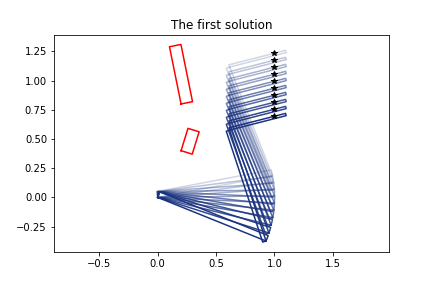
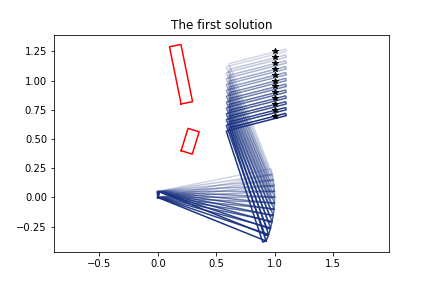
first version of optimization working but still messy

Changed region(s): [[0.4213, 0.1562, 0.662, 0.8125], [0.331, 0.9062, 0.3912, 0.9375]]

diff --git a/ppr/optimize.py b/ppr/optimize.py
@@ -10,6 +10,34 @@ Created on Tue Nov 21 11:59:33 2017
 import numpy as np
 from scipy.optimize import minimize, fmin_slsqp
 
+from scipy.interpolate import CubicSpline
+
+def get_optimal_trajectory(robot, path, path_js_init, c_torque=1.0, c_position=1.0):
+    n_path = len(path)
+    q_init = np.array(path_js_init).flatten()
+    
+    def obj(x):
+        return c_torque * torque_cost(robot, x) + c_position * path_pos_error(robot, x, path)
+
+    sol = fmin_slsqp(obj, 
+                     q_init,
+                     f_ieqcons=lambda x: path_constraints(robot, x, path))
+    
+    qsol = sol.reshape(n_path, 3)
+    dqs, ddqs = q_derivatives(qsol)
+    return qsol, dqs, ddqs
+
+def optimal_spline_wrap(robot, path, path_js_init):
+    qp = path_js_init
+    n_path = len(qp)
+    t_end = (n_path - 1) * 0.1
+    tp = np.linspace(0, t_end, n_path)
+    q_splines = []
+    for i in range(3):
+        q_splines.append(CubicSpline(tp, qp[:, i]))
+    
+    return 0
+    
 
 def rk4(ode,h,x,u):
   k1 = ode(x,       u)
@@ -18,13 +46,16 @@ def rk4(ode,h,x,u):
   k4 = ode(x+h*k3,  u)
   return x + h/6 * (k1 + 2*k2 + 2*k3 + k4)
 
-def path_pos_error(robot, q_path, x_path):
+def path_pos_error(robot, q_path, path):
     n_path = int(len(q_path) / 3)
-    xp = np.array([robot.fk(q) for q in q_path.reshape(n_path, 3)])
-    xp = xp[:, :2].flatten()
-    x_path = x_path[:, :2].flatten()
-    
-    return np.sum((xp - x_path)**2)
+    qp = q_path.reshape(n_path, 3)
+    con = []
+    for i, tp in enumerate(path):
+        pp = tp.p_nominal
+        pfk = robot.fk(qp[i])
+        con.append(np.sum((pp - pfk)**2))
+    con = np.array(con).flatten()
+    return np.sum(con**2)
 
 def path_cost(q_path):
     n_path = int(len(q_path) / 3)
@@ -32,6 +63,8 @@ def path_cost(q_path):
     dqp = np.diff(qp, axis=0)
     
     return np.sum(np.abs(dqp))
+
+
 
 def obj(robot, q_path, x_path):
     return path_pos_error(robot, q_path, x_path) + 0.1 * path_cost(q_path)
@@ -72,12 +105,23 @@ def torque_cost(robot, q_path):
     tau = np.array(tau)
     return np.sum(tau**2)
 
-def q_derivatives(q):
+def jerk_cost(robot, q_path):
+    n_path = int(len(q_path) / 3)
+    qp = q_path.reshape(n_path, 3)
+    dqp, ddqp = q_derivatives(qp)
+    tau = []
+    for i in range(n_path):
+        tau.append(robot.euler_newton(qp[i], dqp[i], ddqp[i]))
+    tau = np.array(tau)
+    jerk = np.gradient(tau, axis=0)
+    return np.sum(jerk**2)
+
+def q_derivatives(q, dt=0.1):
     dq = []
     ddq = []
     for i in range(3):
-        dq.append(np.gradient(q[:, i]))
-        ddq.append(np.gradient(dq[i]))
+        dq.append( np.gradient(q[:, i]) * dt)
+        ddq.append(np.gradient(dq[i])   * dt)
     dq = np.array(dq).T
     ddq = np.array(ddq).T
     return dq, ddq
@@ -154,22 +198,22 @@ if __name__ == "__main__":
     sol1 = fmin_slsqp(path_cost, q_init, f_eqcons=feq)
 #    r1.plot_path_kinematics(ax, sol1.reshape(10, 3))
     print(sol1)
+    qsol1 = sol1.reshape(10, 3)
     
     r1.set_link_inertia([1, 1, 1], [0.5, 0.5, 0.25], [0.05, 0.05, 0.05])
     print(torque_cost(r1, q_init))
     
-    def fieq(q):
-        return path_constraints(r1, q, path)
+#    def fieq(q):
+#        return path_constraints(r1, q, path)
+#    
+#    def obj2(q):
+#        return torque_cost(r1, q)
+#    sol2 = fmin_slsqp(obj2, sol1, f_ieqcons=fieq)
+    qsol2, dq, ddq = get_optimal_trajectory(r1, path, qsol1)
+    r1.plot_path_kinematics(ax, qsol2)
+    print(qsol2)
     
-    def obj2(q):
-        return path_cost(q) + torque_cost(r1, q)
-    sol2 = fmin_slsqp(obj2, sol1, f_ieqcons=fieq)
-    r1.plot_path_kinematics(ax, sol2.reshape(10, 3))
-    print(sol2)
-    
-    
-    qsol2 = sol2.reshape(10, 3)
-    dq, ddq = q_derivatives(qsol2)
+#    dq, ddq = q_derivatives(qsol2)
 #    dq = []
 #    ddq = []
 #    for i in range(3):
@@ -192,7 +236,13 @@ if __name__ == "__main__":
     plt.title('Torque')
     plt.plot(tau)
     
-    
+#def path_pos_error(robot, q_path, x_path):
+#    n_path = int(len(q_path) / 3)
+#    xp = np.array([robot.fk(q) for q in q_path.reshape(n_path, 3)])
+#    xp = xp[:, :2].flatten()
+#    x_path = x_path[:, :2].flatten()
+#    
+#    return np.sum((xp - x_path)**2)   
 # from scipy.interpolate import CubicSpline, interp1d  
 #from scipy.signal import resample
 #def derivatives(t, x):

diff --git a/example_3R_robot.py b/example_3R_robot.py
@@ -17,9 +17,9 @@ angle = TolerancedNumber(0.0, -0.5, 0.5, samples=5)
 
 # create a list with path points
 path = []
-n_path = 10
+n_path = 12
 for i in range(n_path):
-   yi = 0.7 + i * 0.6 / 10
+   yi = 0.7 + i * 0.6 / n_path
    path.append(TrajectoryPt([dx, yi, angle]))
 
 # look at the created path
@@ -79,6 +79,62 @@ plot_scene(ax4, sc1, 'r')
 plt.savefig("image/example_first_solution.png")
 
 """fictional code block 5 """
+from ppr.optimize import get_optimal_trajectory, q_derivatives
+
+#robot1.add_joint_speed_limits([-0.5, -0.5, -0.5], [0.5, 0.5, 0.5])
+#robot1.add_joint_acceleration_limits([-0.5, -0.5, -0.5], [0.5, 0.5, 0.5])
+robot1.set_link_inertia([1, 1, 1], [0.5, 0.5, 0.25], [0.05, 0.05, 0.05])
+
+qs, dqs, ddqs = get_optimal_trajectory(robot1, path, path_js_init=shortest_path_js,
+                                       c_torque=10.0)
+
+fig5, ax5 = plt.subplots()
+plt.title("Optimized solution")
+ax5.axis('equal')
+robot1.plot_path(ax5, qs)
+plot_path(ax5, path, show_tolerance=False)
+plot_scene(ax5, sc1, 'r')
+
+""" some scrap code """
+import numpy as np
+
+q1 = np.array(shortest_path_js)
+dq1, ddq1 = q_derivatives(q1)
+tau1 = []
+tau = []
+for i in range(n_path):
+    tau1.append(robot1.euler_newton(q1[i], dq1[i], ddq1[i]))
+    tau.append(robot1.euler_newton(qs[i], dqs[i], ddqs[i]))
+tau1 = np.array(tau1)
+tau = np.array(tau)
+
+plt.figure()
+plt.title('Torque')
+plt.plot(tau1, '--')
+plt.plot(tau, '.-')
+plt.legend(['t11', 't21', 't31', 't1s', 't2s', 't3s'])
+
+fig6, ax6 = plt.subplots(1, 3)
+ax6[0].plot(qs)
+ax6[1].plot(dqs)
+ax6[2].plot(ddqs)
+
+from scipy.interpolate import CubicSpline, interp1d
+t_end = (n_path-1) * 0.1
+ts = np.linspace(0, t_end, n_path)
+
+cs = []
+tauf = []
+tf = np.linspace(0, t_end, 100)
+for i in range(3):
+    cs.append(CubicSpline(ts, tau[:, i]))
+    tauf.append(cs[i](tf))
+tauf = np.array(tauf).T
+
+plt.figure()
+plt.plot(tauf)
+
+
 #import numpy as np
 #from ppr.optimize import derivatives
 #
@@ -105,10 +161,3 @@ plt.savefig("image/example_first_solution.png")
 #
 #plt.figure()
 #plt.plot(t, tau[0], t, tau[1], t, tau[2])
-
-#from ppr.optimize import get_optimal_trajectory
-#
-#robot1.add_joint_speed_limits([-0.5, -0.5, -0.5], [0.5, 0.5, 0.5])
-#robot1.add_joint_acceleration_limits([-0.5, -0.5, -0.5], [0.5, 0.5, 0.5])
-#
-#traj, info = get_optimal_trajectory(robot1, path, path_js_init=shortest_path_js)

diff --git a/ppr/path.py b/ppr/path.py
@@ -44,6 +44,7 @@ class TrajectoryPt:
                 self.p_nominal.append(self.p[i].n)
             else:
                 self.p_nominal.append(self.p[i])
+        self.timing = 0.1 # with respect to previous point
     
     def plot(self, axes_handle, show_tolerance):
         pn = self.p_nominal
